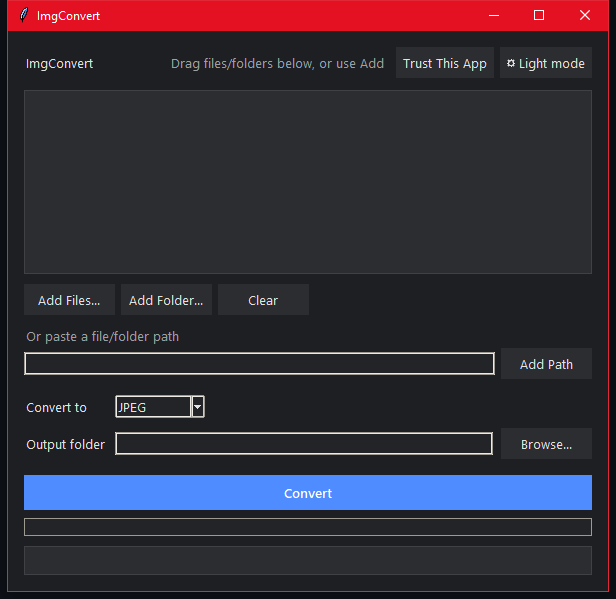
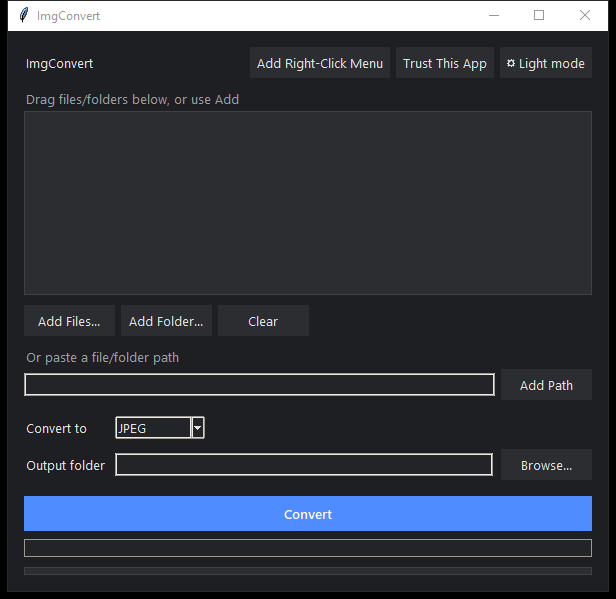
Add Explorer right-click "Convert To" context menu
Registers a per-format Convert To submenu under HKCU for supported image
extensions (no admin needed). Selecting a format re-invokes the exe with
--convert-to FORMAT <file>, which converts headlessly and writes the result
next to the source file. Also adds --install-context-menu /
--uninstall-context-menu CLI flags and a header button to trigger install.

diff --git a/imgconvert.py b/imgconvert.py
@@ -3,8 +3,10 @@
 import base64
 import os
 import subprocess
+import sys
 import tempfile
 import tkinter as tk
+import winreg
 from tkinter import filedialog, font, messagebox, ttk
 
 from PIL import Image, ImageOps
@@ -88,6 +90,86 @@ FORMAT_INFO = {
     "TIFF": {"ext": ".tiff", "pil_format": "TIFF"},
 }
 FORMATS = list(FORMAT_INFO.keys())
+
+CONTEXT_MENU_KEY = "ImgConvert"
+
+
+def _self_command_prefix():
+    """Command-line prefix that re-invokes this same app (frozen exe or dev script)."""
+    if getattr(sys, "frozen", False):
+        return [sys.executable]
+    return [sys.executable, os.path.abspath(__file__)]
+
+
+def _delete_key_recursive(root, path):
+    try:
+        key = winreg.OpenKey(root, path, 0, winreg.KEY_ALL_ACCESS)
+    except FileNotFoundError:
+        return
+    with key:
+        while True:
+            try:
+                subkey_name = winreg.EnumKey(key, 0)
+            except OSError:
+                break
+            _delete_key_recursive(root, f"{path}\\{subkey_name}")
+    winreg.DeleteKey(root, path)
+
+
+def install_context_menu():
+    """Add a 'Convert To' submenu (one entry per format) to the Explorer right-click
+    menu for supported image extensions. Writes under HKCU so no admin rights are
+    needed. Each entry re-invokes this exe with --convert-to and outputs next to
+    the source file."""
+    prefix = " ".join(f'"{p}"' for p in _self_command_prefix())
+    exe_for_icon = _self_command_prefix()[0]
+
+    for ext in sorted(SUPPORTED_EXTS):
+        base = f"Software\\Classes\\SystemFileAssociations\\{ext}\\shell\\{CONTEXT_MENU_KEY}"
+        with winreg.CreateKey(winreg.HKEY_CURRENT_USER, base) as key:
+            winreg.SetValueEx(key, None, 0, winreg.REG_SZ, "Convert To")
+            winreg.SetValueEx(key, "Icon", 0, winreg.REG_SZ, f'"{exe_for_icon}"')
+
+        for i, fmt in enumerate(FORMATS, start=1):
+            sub = f"{base}\\shell\\{i:02d}_{fmt}"
+            with winreg.CreateKey(winreg.HKEY_CURRENT_USER, sub) as subkey:
+                winreg.SetValueEx(subkey, None, 0, winreg.REG_SZ, fmt)
+            with winreg.CreateKey(winreg.HKEY_CURRENT_USER, f"{sub}\\command") as cmdkey:
+                winreg.SetValueEx(cmdkey, None, 0, winreg.REG_SZ, f'{prefix} --convert-to {fmt} "%1"')
+
+    return True, f"Added 'Convert To' to the right-click menu for {len(SUPPORTED_EXTS)} image file types."
+
+
+def uninstall_context_menu():
+    for ext in sorted(SUPPORTED_EXTS):
+        base = f"Software\\Classes\\SystemFileAssociations\\{ext}\\shell\\{CONTEXT_MENU_KEY}"
+        _delete_key_recursive(winreg.HKEY_CURRENT_USER, base)
+    return True, "Removed 'Convert To' from the right-click menu."
+
+
+def cli_convert(argv):
+    """Entry point when launched from the Explorer 'Convert To' menu:
+    <exe> --convert-to FORMAT <file1> [file2 ...]. Converts each file into its
+    own folder (same folder it was found in) and exits without opening the GUI."""
+    idx = argv.index("--convert-to")
+    target_format = argv[idx + 1].upper()
+    file_paths = argv[idx + 2 :]
+
+    errors = []
+    if target_format not in FORMAT_INFO:
+        errors.append(f"Unknown format: {target_format}")
+    else:
+        for path in file_paths:
+            try:
+                convert_file(path, os.path.dirname(path) or ".", target_format)
+            except Exception as exc:
+                errors.append(f"{os.path.basename(path)}: {exc}")
+
+    if errors:
+        root = tk.Tk()
+        root.withdraw()
+        messagebox.showerror("ImgConvert", "\n".join(errors))
+        root.destroy()
 
 # Formats with no (or limited) alpha support - flatten onto white/RGB first.
 FLATTEN_FORMATS = {"JPEG"}
@@ -288,6 +370,13 @@ class ImgConvertApp:
         else:
             messagebox.showerror("Trust This App", message)
 
+    def _install_context_menu(self):
+        try:
+            ok, message = install_context_menu()
+            messagebox.showinfo("Right-Click Menu", message)
+        except OSError as exc:
+            messagebox.showerror("Right-Click Menu", f"Failed to add menu: {exc}")
+
     def _build_ui(self):
         outer = ttk.Frame(self.root, padding=16)
         outer.pack(fill="both", expand=True)
@@ -298,16 +387,20 @@ class ImgConvertApp:
         self.theme_btn = ttk.Button(header, text="", command=self._toggle_theme)
         self.theme_btn.pack(side="right")
         ttk.Button(header, text="Trust This App", command=self._trust_app).pack(side="right", padx=(0, 6))
+        ttk.Button(
+            header, text="Add Right-Click Menu", command=self._install_context_menu
+        ).pack(side="right", padx=(0, 6))
+
         ttk.Label(
-            header,
+            outer,
             text="Drag files/folders below, or use Add"
             if HAS_DND
             else "Use Add Files / Add Folder below",
             style="Muted.TLabel",
-        ).pack(side="right", padx=(0, 10))
+        ).pack(fill="x", pady=(10, 2))
 
         self.drop_card = tk.Frame(outer, highlightthickness=1)
-        self.drop_card.pack(fill="both", expand=True, pady=(12, 10))
+        self.drop_card.pack(fill="both", expand=True, pady=(0, 10))
 
         self.listbox = tk.Listbox(
             self.drop_card,
@@ -476,6 +569,16 @@ class ImgConvertApp:
 
 
 def main():
+    if "--convert-to" in sys.argv:
+        cli_convert(sys.argv)
+        return
+    if "--install-context-menu" in sys.argv:
+        install_context_menu()
+        return
+    if "--uninstall-context-menu" in sys.argv:
+        uninstall_context_menu()
+        return
+
     root = TkinterDnD.Tk() if HAS_DND else tk.Tk()
     ImgConvertApp(root)
     root.mainloop()

diff --git a/README.md b/README.md
@@ -21,6 +21,7 @@ ImgConvert batch-converts images between JPEG/JPG, PNG, WebP, GIF, TIFF/TIF, and
 
 - Batch convert between JPEG/JPG, PNG, WebP, GIF, TIFF/TIF, and HEIC/HEIF
 - Drag and drop files or folders, or paste a path directly
+- Windows Explorer right-click **Convert To** menu, per format, output next to the original file
 - Automatic EXIF-orientation correction (fixes sideways/upside-down phone photos)
 - Progress bar and a per-file success/failure log
 - Light and dark theme toggle
@@ -49,6 +50,12 @@ python imgconvert.py
 4. Click **Convert**.
 
 Files that fail to convert (not an image, corrupt, etc.) are skipped and listed in the log — the rest of the batch still runs.
+
+## Right-click "Convert To" menu
+
+Click **"Add Right-Click Menu"** in the app's header to add a **Convert To** submenu (JPEG, PNG, WebP, GIF, HEIC, TIFF) to the Explorer right-click menu for supported image files. Pick a format and the converted file is written right next to the original — no need to open the app.
+
+This writes only to `HKEY_CURRENT_USER`, so it applies to your Windows account and doesn't need admin rights. To remove it, run `ImgConvert.exe --uninstall-context-menu`.
 
 ## Windows SmartScreen / "Unknown publisher"
 
